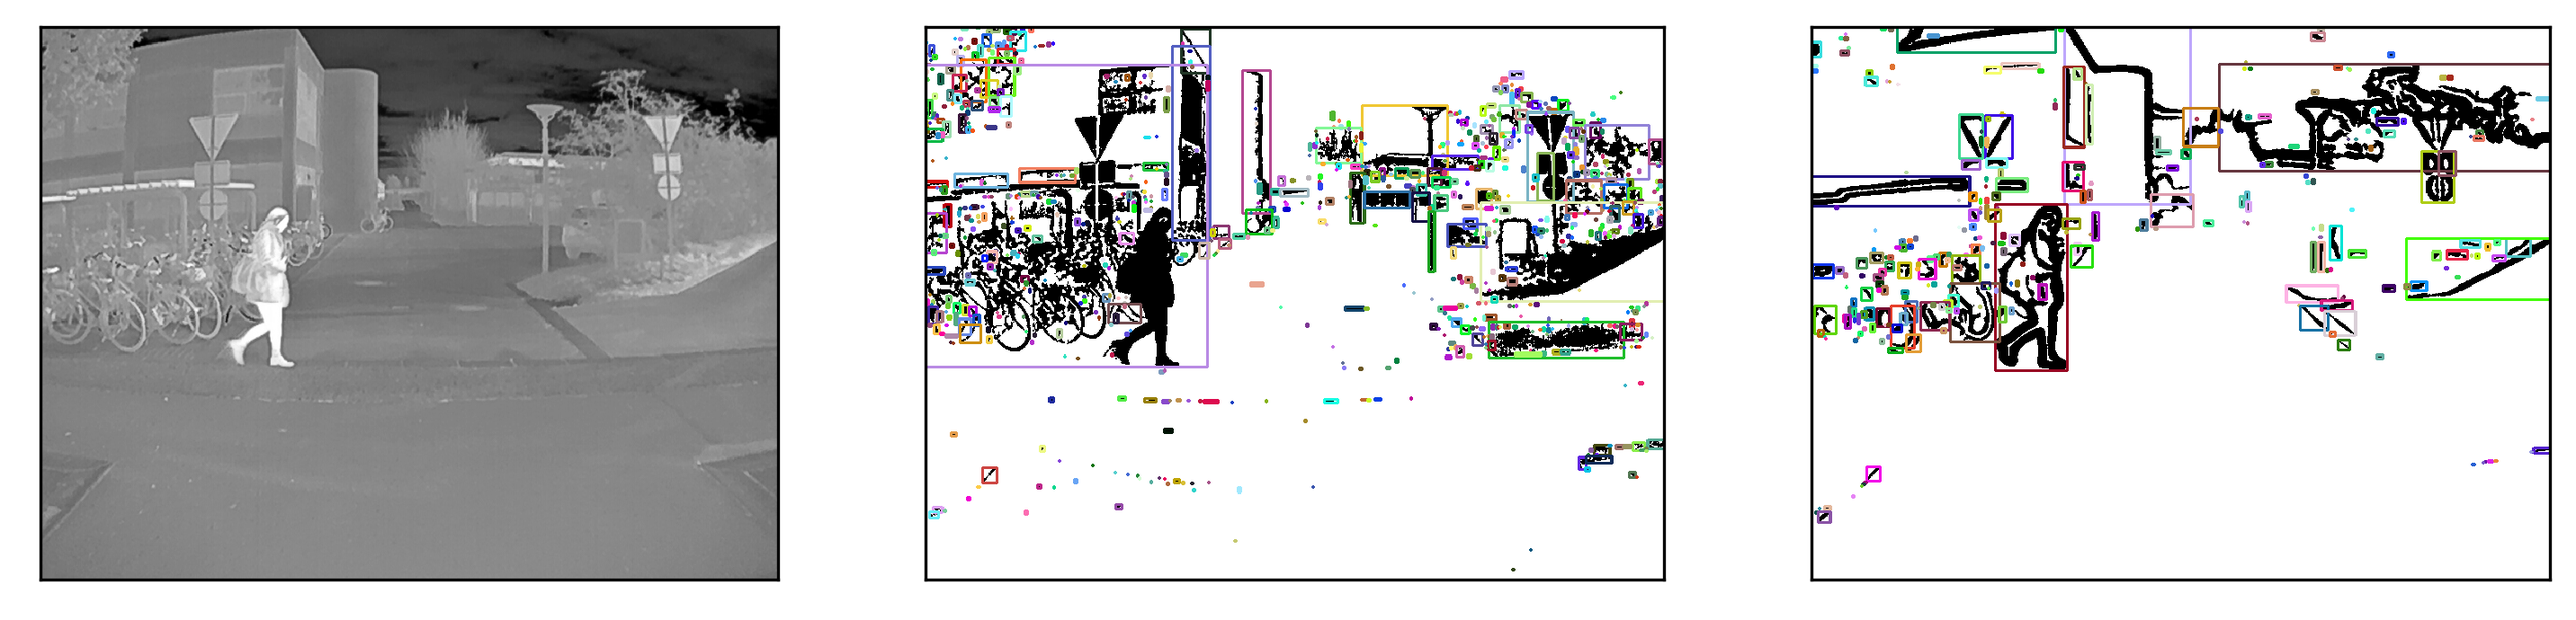
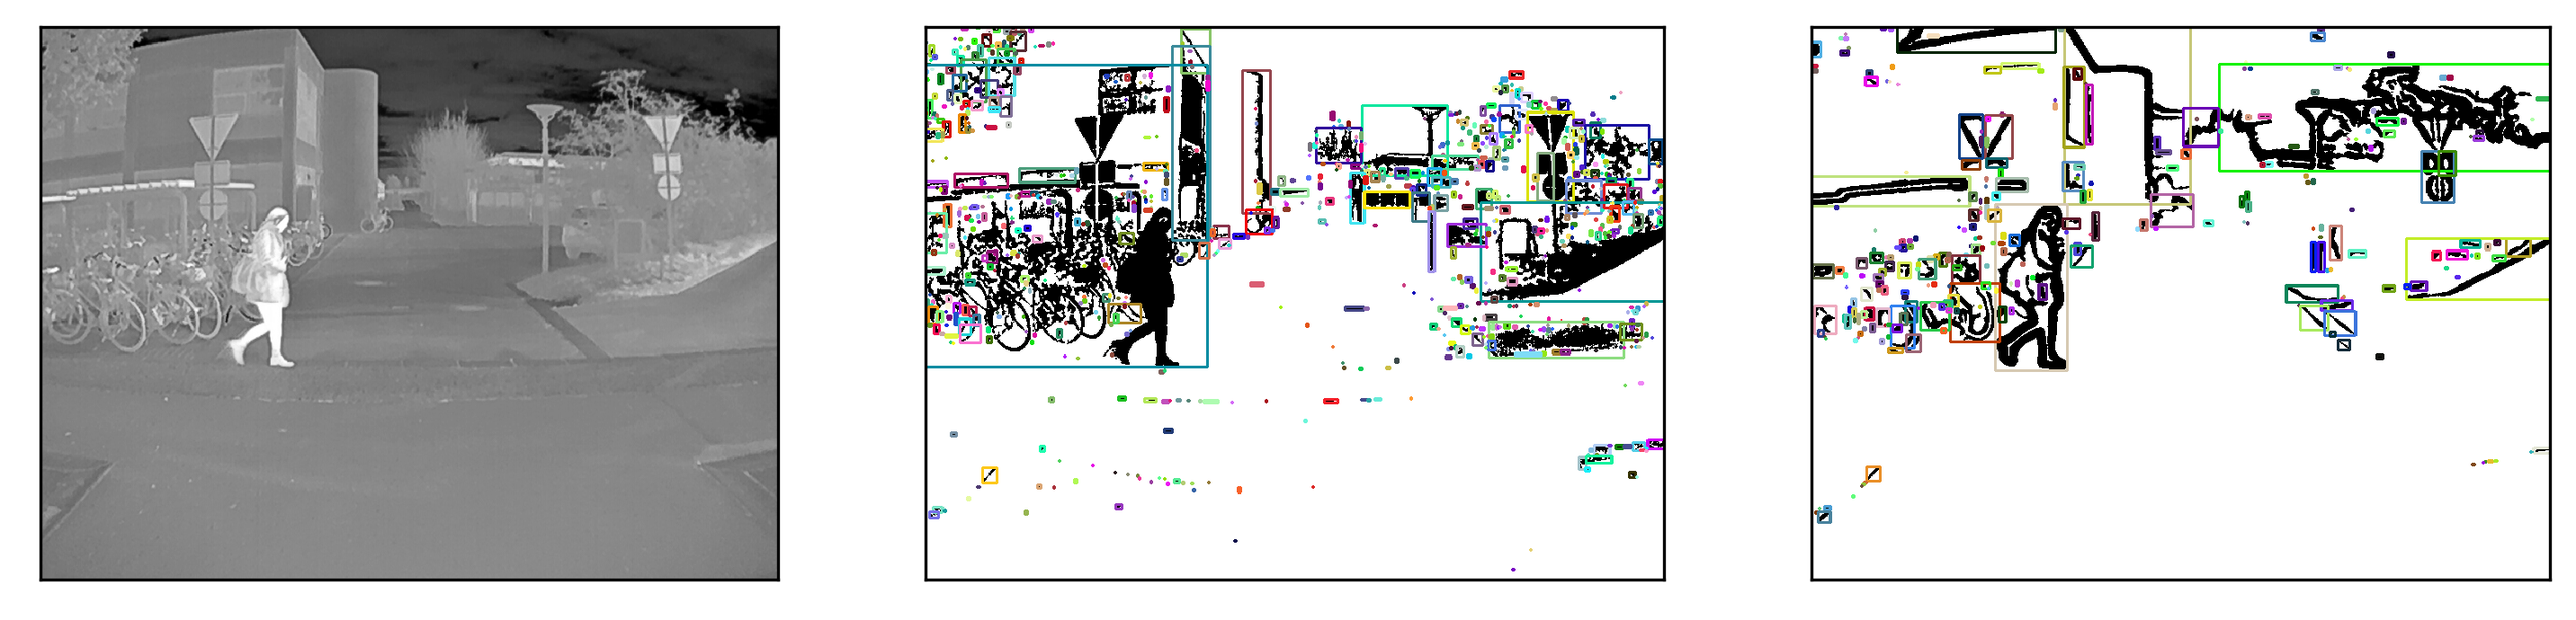
refactoring

diff --git a/catkin_ws/src/persondetection/include/utils/boxes.py b/catkin_ws/src/persondetection/include/utils/boxes.py
@@ -60,23 +60,8 @@ class Box:
 
         # print(total_score)
         self.score = np.round(total_score,decimals=2)
-        print(self.score)
-    def drawOnImg(self, img = None):
-        try:
-            if len(img.shape) == 2:
-                img = cv2.cvtColor(img,cv2.COLOR_GRAY2BGR)
-        except:
-            img = self.color_img
-        box_color = (0,255,0)
-        img = cv2.rectangle(img,(self.top_left['x'],self.top_left['y']),(self.bottom_right['x'],self.bottom_right['y']),box_color,3)
-        img = cv2.circle(img,(self.x,self.y), int(self.img_h/50), (0,0,255), -1)
-        img = cv2.putText(img, str(np.round(self.confidence,decimals=2)), (self.top_left['x']-10, self.top_left['y']-10), cv2.FONT_HERSHEY_PLAIN, 1.0, box_color, 2)
-        return img
-    def makeConfidenceMap(self):
-        map = np.zeros_like(self.img)
-        map[self.top_left['y']:self.bottom_right['y'],
-            self.top_left['x']:self.bottom_right['x']] = 255
-        return map
+        # print(self.score)
+
 
 def makeConfidenceMapFromBoxes(img,boxes):
     map = np.float64(np.zeros_like(img))
@@ -84,6 +69,7 @@ def makeConfidenceMapFromBoxes(img,boxes):
     for box in boxes_sorted:
         map[box.top_left['y']:box.bottom_right['y'],
             box.top_left['x']:box.bottom_right['x']] = box.score
+    # map = cv2.convertScaleAbs(map, alpha=255)
     return map
 
 

diff --git a/catkin_ws/src/persondetection/include/connected_components/connectedcomponents.py b/catkin_ws/src/persondetection/include/connected_components/connectedcomponents.py
@@ -3,18 +3,18 @@ import cv2
 import numpy as np
 from random import Random
 
-SLOPE = {}
-INTERCEPT = {}
+SLOPE = dict()
+INTERCEPT = dict()
 SLOPE['y_height'] = 1.838553092116205
 INTERCEPT['y_height'] = -0.592323173694313
 SLOPE['aspect_ratio'] = 0.2196364045520636
-INTERCEPT['aspect_ratio'] = 0.02153938390717812
+INTERCEPT['aspect_ratio'] = 0.004519400085200226
 
-# ZED
-SLOPE['y_height'] = 1.838772993923768
-INTERCEPT['y_height'] = -0.592406200468761
-SLOPE['aspect_ratio'] = 0.2193557959956911
-INTERCEPT['aspect_ratio'] = 0.003921820805625677
+# # ZED
+# SLOPE['y_height'] = 1.838772993923768
+# INTERCEPT['y_height'] = -0.592406200468761
+# SLOPE['aspect_ratio'] = 0.2193557959956911
+# INTERCEPT['aspect_ratio'] = 0.003921820805625677
 
 def distance_from_line(x,y,a,b):
     predicted_y = x*a + b

diff --git a/catkin_ws/src/persondetection/include/utils/img_utils.py b/catkin_ws/src/persondetection/include/utils/img_utils.py
@@ -10,6 +10,9 @@ colors = {
             'blue':(0,255,255)
 }
 
+ZED_h = 720
+ZED_w = 1280
+
 def angle_from_box(img,box):
     h,w = img.shape[:2]
     (xA, yA, xB, yB) = box
